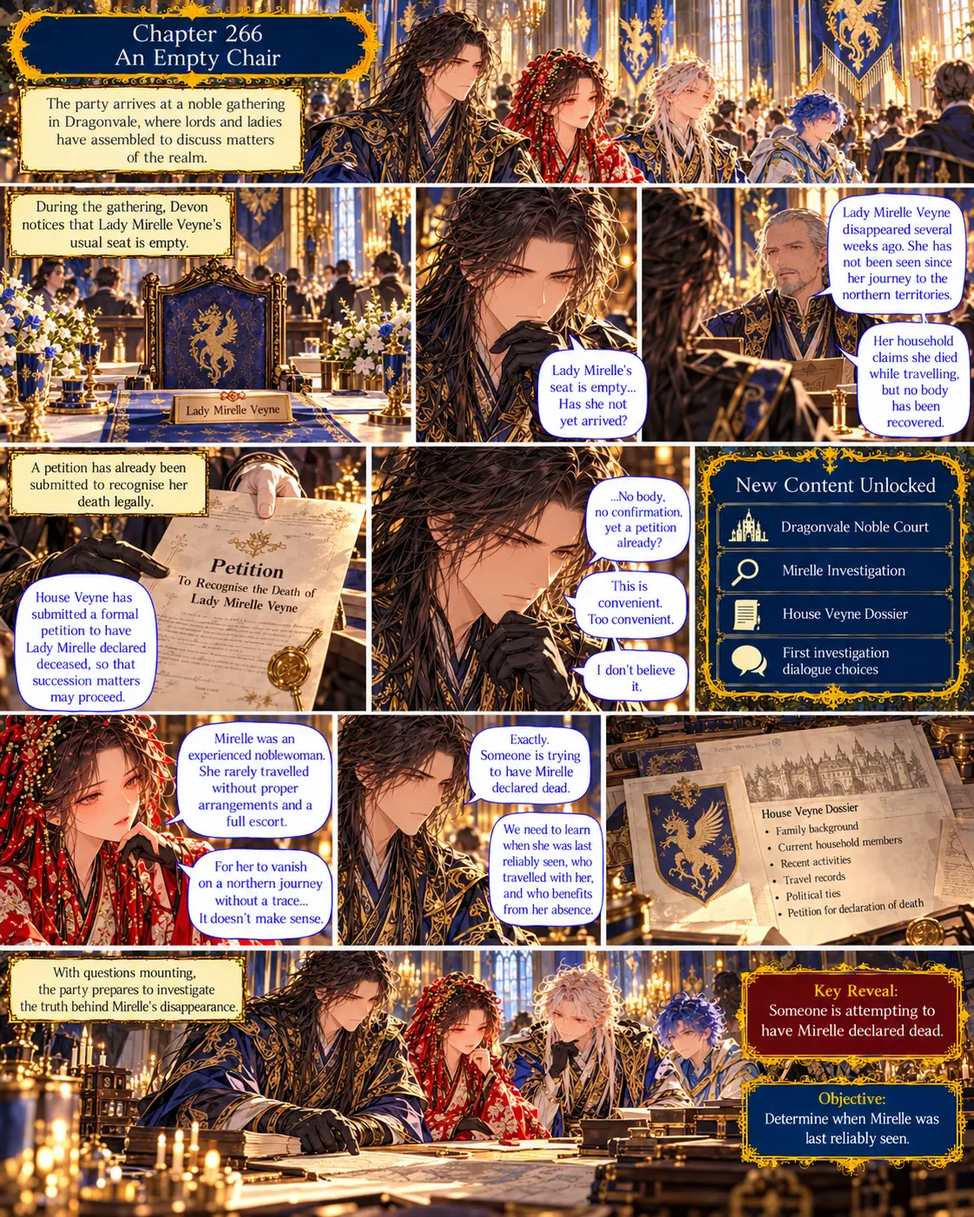
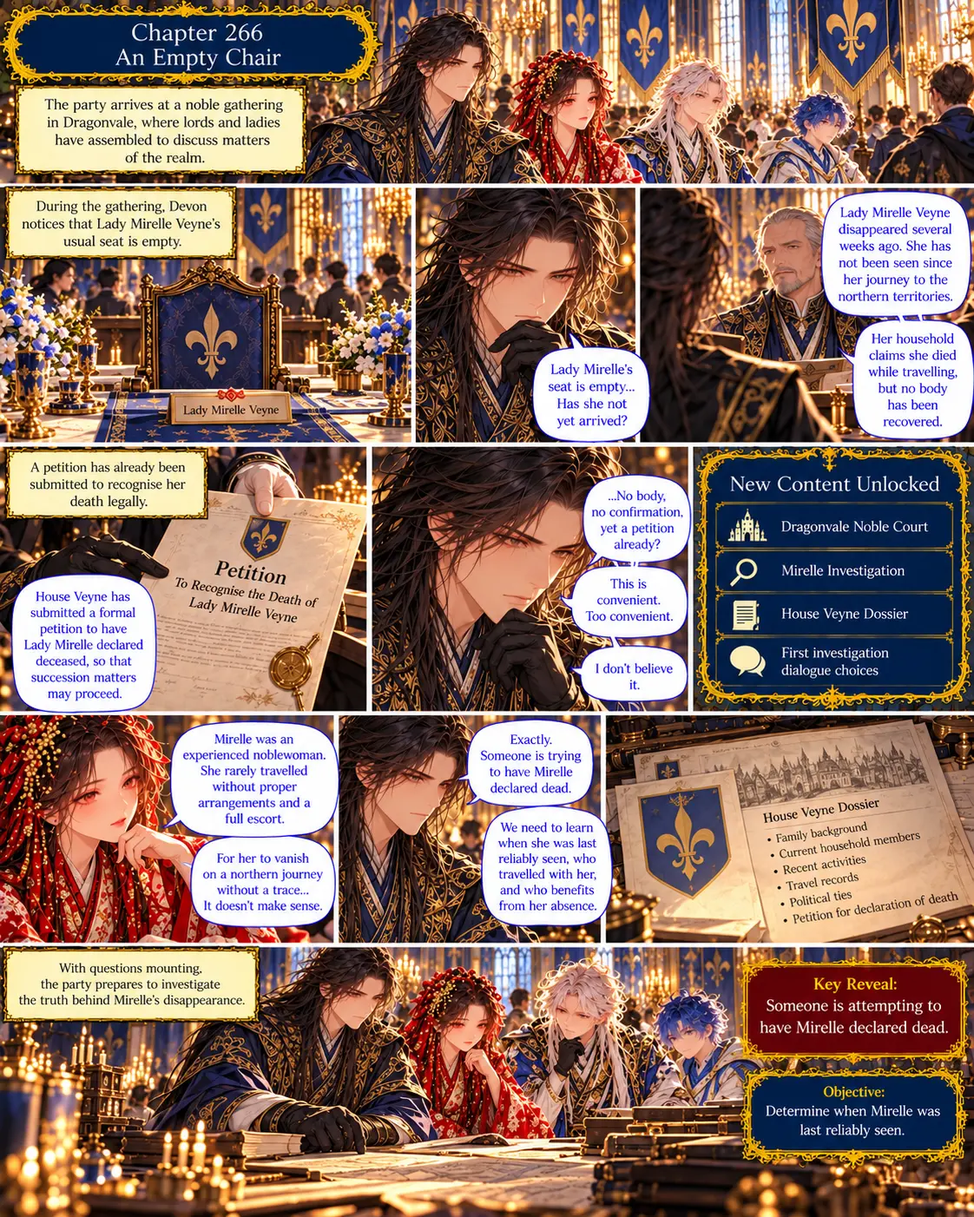
Regenerated 266, 277, 278: fleur-de-lis crest, report to Dragonvale's authorities, convoy date
Claude-Session: https://claude.ai/code/session_01JgCx3Matg4MVjEr67ncDB4

diff --git a/scripts/chapters.js b/scripts/chapters.js
@@ -2671,7 +2671,7 @@ const CHAPTER_DESIGN = {
   chars:['jade', 'devon', 'sky', 'rheon'], charsNote:'Jade, Devon, Sky, Rheon and the Dragonvale nobles',
   introduced:[],
   sum:'The party arrives at a noble gathering in Dragonvale, where lords and ladies have assembled to discuss matters of the realm. During the gathering, Devon notices that Lady Mirelle Veyne\'s usual seat is empty. Devon: "Lady Mirelle\'s seat is empty... Has she not yet arrived?" A lord: "Lady Mirelle Veyne disappeared several weeks ago. She has not been seen since her journey to the northern territories. Her household claims she died while travelling, but no body has been recovered." A petition has already been submitted to recognise her death legally. "House Veyne has submitted a formal petition to have Lady Mirelle declared deceased, so that succession matters may proceed." Devon: "...No body, no confirmation, yet a petition already? This is convenient. Too convenient. I don\'t believe it." Jade: "Mirelle was an experienced noblewoman. She rarely travelled without proper arrangements and a full escort. For her to vanish on a northern journey without a trace... It doesn\'t make sense." Devon: "Exactly. Someone is trying to have Mirelle declared dead. We need to learn when she was last reliably seen, who travelled with her, and who benefits from her absence." NEW CONTENT UNLOCKED: Dragonvale Noble Court. Mirelle Investigation. House Veyne Dossier. First investigation dialogue choices. House Veyne Dossier: family background, current household members, recent activities, travel records, political ties, petition for declaration of death. KEY REVEAL: Someone is attempting to have Mirelle declared dead. OBJECTIVE: Determine when Mirelle was last reliably seen.',
-  art:'Pages show: the Dragonvale noble hall (blue banners with a gold griffin, the House Veyne crest), the empty blue chair with a \'Lady Mirelle Veyne\' name card, Devon questioning a grey-haired lord, the \'Petition to Recognise the Death of Lady Mirelle Veyne\' with a gold-key seal, the House Veyne dossier, and the party at a desk of records (Devon, Jade, Rheon, Sky). \'New Content Unlocked\' and \'Key Reveal\' cards. The Veyne crest is a griffin.',
+  art:'Pages show: the Dragonvale noble hall (blue banners with a gold fleur-de-lis, the House Veyne crest), the empty blue chair with a \'Lady Mirelle Veyne\' name card, Devon questioning a grey-haired lord, the \'Petition to Recognise the Death of Lady Mirelle Veyne\' with a gold-key seal, the House Veyne dossier, and the party at a desk of records (Devon, Jade, Rheon, Sky). \'New Content Unlocked\' and \'Key Reveal\' cards.',
   quote:'"Someone is trying to have Mirelle declared dead." — Devon',
   events:['At the noble gathering Devon sees Lady Mirelle Veyne\'s seat is empty', 'She disappeared several weeks ago after a journey to the northern territories', 'Her household claims she died while travelling; no body has been recovered', 'House Veyne has already filed a petition to have her declared dead', 'Devon: "This is convenient. Too convenient. I don\'t believe it."', 'Key reveal: someone is attempting to have Mirelle declared dead', 'Objective: determine when Mirelle was last reliably seen'],
   purpose:['Open the Mirelle investigation', 'Unlock the Noble Court and the House Veyne dossier'],
@@ -2731,7 +2731,7 @@ const CHAPTER_DESIGN = {
   chars:['jade', 'devon', 'sky', 'levi', 'rheon'], charsNote:'Jade, Devon and the House Veyne household',
   introduced:[],
   sum:'Jade\'s party visits House Veyne in Dragonvale. The estate is still functioning, but in the absence of Lady Mirelle, a tense and uneasy atmosphere lingers over the household. A noble estate, outwardly orderly, but the warmth is gone. Without its lady, the household feels hollow, and fear hangs in the air. Jade: "Thank you for receiving us. We are here to speak about Lady Mirelle and to learn more about the estate." A maid: "Y-Yes, of course, my lady. We will do our best to assist you. Lady Mirelle... she is dead. There is no need to search further. She will not be returning. It was a terrible tragedy. We have all moved on. Please, my lady, don\'t reopen old wounds." The maid, anxious: "I\'m sorry... I cannot talk about Lady Mirelle. Please don\'t ask me any more questions... I... I don\'t know anything. It\'s better if you speak to someone else... Please..." Devon: "Several of the long-serving household officials have been dismissed. The steward, the head of security, and two senior attendants... all removed within the last month. That is a significant change. Someone is purging loyal staff." Dismissed Household Officials: Rennard Vale, Head Steward, 18 years, Dismissed. Celia Marst, Senior Attendant, 12 years, Dismissed. Borin Keld, Head of Security, 16 years, Dismissed. Lysa Quen, Estate Accountant, 14 years, Dismissed. Tomas Heller, Senior Servant, 11 years, Dismissed. All dismissed within the last month by order of the current household authority. Mirelle\'s Private Study: The party gains access to Lady Mirelle\'s private study. Her personal belongings remain, offering a glimpse into her life... and perhaps the truth. Jade: "There are many personal notes, ledgers, and letters here. She was still managing estate affairs right up until the end." Devon: "Look carefully. There may be something they missed." Jade: "There\'s a hidden compartment behind this panel... A document... this looks important. This is a private letter... It describes tensions within the estate, and mentions someone planning to remove certain people... This could be the key to what happened to Lady Mirelle." Devon: "So she suspected something... and someone was trying to isolate her. This confirms there is more to her disappearance than we were told." INVESTIGATION UPDATE: Veyne Estate unlocked: new location available for investigation. Hidden document discovered: a private letter from Lady Mirelle has been found. Objective: Investigate Mirelle\'s private study. Search the study and examine Mirelle\'s personal records for further clues.',
-  art:'Pages show: the House Veyne estate at dusk (blue banners with a gold fleur-de-lis crest), Jade and Devon speaking to a frightened maid, Devon reading the dismissed-officials list, Mirelle\'s private study (a portrait of a lady in a pink-and-violet gown above the desk, flowers, a window), Jade finding a hidden compartment and a sealed letter, Devon and Jade concluding. The portrait in the study shows a dark-haired woman in a violet-and-pink gown (probably Mirelle younger); the older silver-haired Mirelle appears in the 267 flashback. The crest on this page is a fleur-de-lis, on 266 a griffin: House Veyne\'s crest differs between pages (cleaning pass).',
+  art:'Pages show: the House Veyne estate at dusk (blue banners with a gold fleur-de-lis crest), Jade and Devon speaking to a frightened maid, Devon reading the dismissed-officials list, Mirelle\'s private study (a portrait of a lady in a pink-and-violet gown above the desk, flowers, a window), Jade finding a hidden compartment and a sealed letter, Devon and Jade concluding. The portrait in the study shows a dark-haired woman in a violet-and-pink gown (probably Mirelle younger); the older silver-haired Mirelle appears in the 267 flashback.',
   quote:'"Someone is purging loyal staff." — Devon',
   events:['Jade\'s party visits House Veyne: the estate functions, but the warmth is gone and fear hangs in the air', 'The maid insists Mirelle is dead and begs them not to reopen old wounds; others refuse to talk', 'Five long-serving officials were dismissed within the last month, by order of the current household authority', 'Devon: "Someone is purging loyal staff."', 'In Mirelle\'s private study Jade finds a hidden compartment and a sealed letter', 'The letter describes tensions in the estate and someone planning to remove certain people', 'Devon: "She suspected something, and someone was trying to isolate her."'],
   purpose:['Open the Veyne Estate', 'Find Mirelle\'s hidden letter'],
@@ -2780,18 +2780,18 @@ const CHAPTER_DESIGN = {
  277:{ title:'The Name Beneath the Seal', type:'Story Chapter — fraudulent transfers and a request for audit', loc:'🐉 Dragonvale: the northern country: Northwatch Station',
   chars:['jade', 'devon', 'levi', 'rheon', 'sky', 'sky'], charsNote:'Jade, Devon, Rheon and Levi',
   introduced:[],
-  sum:'The recovered documents reveal that someone has been transferring military properties through fraudulent inheritance claims. Mirelle had discovered the scheme. Her disappearance appears to have occurred shortly after she requested an independent audit. Devon realises that the people responsible may hold positions within Dragonvale\'s nobility. Jade: "These are the northern military land grants... but the ownership records were altered. Multiple properties were transferred to distant relatives within a short period of time. Mirelle discovered this and requested an independent audit." The Transfer of Military Properties: Pine Ridge Estate (Former Military Station); Northreach Hollow (Supply Depot); Eastrun Farmlands (Military Provision Land); Stoneveil Forest Permit (Timber and Mineral Rights). Jade: "Her notes end here. Shortly after this request, she disappeared. This was not an accident." Devon: "The beneficiaries are not commoners. These names connect to families within Dragonvale\'s nobility." Rheon: "Her same families appear across multiple transfers. This was planned and coordinated. If they were willing to silence her, there are likely others involved. We need to bring this to Greyson and report it formally." The Independent Audit Request: To: Royal Oversight Office. From: Mirelle Veyne. Subject: Audit of Northern Military Properties: "I hereby request an independent audit regarding the recent transfer of northern military properties, as there are inconsistencies in the inheritance claims and supporting records." Jade: "For now, we update our suspect dossiers and return to Dragonvale with these records. This is no longer just about a missing person. It is a larger conspiracy. We need to find out who gains the most from these transfers. Follow the property trail, the money, and the nobility connected to them." With the documents secured, the party returns to Dragonvale to report their findings. The investigation is far from over, but the truth behind Mirelle\'s disappearance is beginning to surface. OBJECTIVES: Identify the beneficiaries of the fraudulent transfers. Major evidence milestone; Noble Conspiracy investigation stage; return to Dragonvale; update suspect dossiers.',
-  art:'Pages show: the party reading by lantern (Jade with a white-fur coat and red ribbon, Devon in black-and-gold, Rheon, Levi in red-brown), the \'Transfer of Military Properties\' list (four estates with red seals), the \'Independent Audit Request\' (To: Royal Oversight Office; From: Mirelle Veyne), three suspect dossier cards, and the party riding to the waterfall city. The chapter has Rheon propose bringing it to Greyson: Greyson is Tribute\'s king, the report goes to Dragonvale\'s authorities in the next chapters (flagged).',
+  sum:'The recovered documents reveal that someone has been transferring military properties through fraudulent inheritance claims. Mirelle had discovered the scheme. Her disappearance appears to have occurred shortly after she requested an independent audit. Devon realises that the people responsible may hold positions within Dragonvale\'s nobility. Jade: "These are the northern military land grants... but the ownership records were altered. Multiple properties were transferred to distant relatives within a short period of time. Mirelle discovered this and requested an independent audit." The Transfer of Military Properties: Pine Ridge Estate (Forestry and Farmland); Northreach Hollow (Supply Depot); Eastern Farmlands (Military Provisions Land); Stoneveil Forest Permit (Timber and Mineral Rights). Jade: "Her notes end here. Shortly after this request, she disappeared. This was not an accident." Devon: "The beneficiaries are not commoners. These names connect to families within Dragonvale\'s nobility." Rheon: "Her same families appear across multiple transfers. This was planned and coordinated. If they were willing to silence her, there are likely others involved. We need to bring this to Dragonvale\'s authorities and report it formally." The Independent Audit Request: To: Royal Oversight Office. From: Mirelle Veyne. Subject: Audit of Northern Military Properties: "I hereby request an independent audit regarding the recent transfer of northern military properties, as there are inconsistencies in the inheritance claims and supporting records." Jade: "For now, we update our suspect dossiers and return to Dragonvale with these records. This is no longer just about a missing person. It is a larger conspiracy. We need to find out who gains the most from these transfers. Follow the property trail, the money, and the nobility connected to them." With the documents secured, the party returns to Dragonvale to report their findings. The investigation is far from over, but the truth behind Mirelle\'s disappearance is beginning to surface. OBJECTIVES: Identify the beneficiaries of the fraudulent transfers. Major evidence milestone; Noble Conspiracy investigation stage; return to Dragonvale; update suspect dossiers.',
+  art:'Pages show: the party reading by lantern (Jade with a white-fur coat and red ribbon, Devon in black-and-gold, Rheon, Levi in red-brown), the \'Transfer of Military Properties\' list (four estates with red seals), the \'Independent Audit Request\' (To: Royal Oversight Office; From: Mirelle Veyne), three suspect dossier cards, and the party riding to the waterfall city.',
   quote:'"This is no longer just about a missing person. It is a larger conspiracy." — Jade',
-  events:['The recovered documents show military properties transferred through fraudulent inheritance claims', 'Four properties: Pine Ridge Estate, Northreach Hollow, Eastrun Farmlands, Stoneveil Forest Permit', 'Mirelle requested an independent audit from the Royal Oversight Office; she disappeared shortly after', 'The beneficiaries connect to families within Dragonvale\'s nobility', 'Her same families appear across multiple transfers: planned and coordinated', 'The party updates the suspect dossiers and returns to Dragonvale'],
+  events:['The recovered documents show military properties transferred through fraudulent inheritance claims', 'Four properties: Pine Ridge Estate, Northreach Hollow, Eastern Farmlands, Stoneveil Forest Permit', 'Mirelle requested an independent audit from the Royal Oversight Office; she disappeared shortly after', 'The beneficiaries connect to families within Dragonvale\'s nobility', 'Her same families appear across multiple transfers: planned and coordinated', 'The party updates the suspect dossiers and returns to Dragonvale'],
   purpose:['Reach the major evidence milestone', 'Open the noble conspiracy stage'],
   unlocks:['Noble Conspiracy investigation stage', 'Suspect dossiers updated', 'Return to Dragonvale'],
   reward:'The fraudulent transfers uncovered'},
  278:{ title:'A Witness Who Should Be Dead', type:'Story Chapter — a forged signature and a transport north', loc:'🐉 Dragonvale: the Noble Court',
   chars:['jade', 'devon', 'levi', 'rheon', 'sky'], charsNote:'Jade, Devon, Rheon, Levi and a witness',
   introduced:[],
-  sum:'The party investigates a key witness cited in the documents surrounding Mirelle\'s reported death. If his testimony is accurate, he placed his signature on the report confirming her death. But something about his account doesn\'t add up. Jade: "You were listed as a witness to Mirelle\'s death, correct? You saw it yourself and signed this?" Devon: "Your name appears in the official record. You confirmed her death at Eastreach Outpost. Tell us exactly what you saw. And why there are inconsistencies in your statement." The witness: "I... I wasn\'t in Dragonvale when the death occurred! I was in Eastreach on other business. I never saw her die." Jade: "Then how did your name and signature end up on this report? This handwriting doesn\'t match your other signed records." The Death Report (Submitted to Court) shows a forged signature, A. Mardon; the Trade Permit (Eastreach) shows the verified one. The witness: "My signature... It was forged. They gave me a document to sign, said it was standard procedure. I didn\'t realize what it was for at the time. Mirelle was not killed at Eastreach. She was transported north under heavy guard. I was told to keep quiet and say that I had witnessed her death at Eastreach instead." Devon: "So the death report was a fabrication... Mirelle is still alive. And someone went to great lengths to hide her removal from Dragonvale." Rheon: "These travel records confirm a guarded convoy departed three days after the false report. The destination is the northern pass, under Crestfall Hold\'s jurisdiction." Northern Convoy Records: Date: 4th Breavane. From: Dragonvale (Royal Escort). To: Crestfall Hold (North). Escort: North Guard (12). Passengers: 1 (High-Security). Notes: Sealed Orders (Do Not Disclose). Jade: "This confirms it. Mirelle was taken north, not killed. We have a new lead. We move to Crestfall Hold and bring her back." OBJECTIVES: Establish the location of Mirelle\'s last confirmed transport. Witness interrogation; verify forged documents; unlock Mirelle rescue objective; return to Dragonvale and plan the rescue.',
-  art:'Pages show: the interrogation of a sweating witness (Mardon) in a candle-lit room with Jade, Devon, Rheon; the forged signature compared against the verified one; the \'Northern Convoy Records\' (Date: 4th Breavane; To: Crestfall Hold (North); Escort: North Guard (12); Passengers: 1 (High-Security)); and the party on a terrace over Dragonvale. The month name \'Breavane\' is not used elsewhere (the petition uses \'3rd Month\'): the game shows both as the pages do. \'Eastreach\' on this page, \'Eastrun Farmlands\' on 277 are different places.',
+  sum:'The party investigates a key witness cited in the documents surrounding Mirelle\'s reported death. If his testimony is accurate, he placed his signature on the report confirming her death. But something about his account doesn\'t add up. Jade: "You were listed as a witness to Mirelle\'s death, correct? You saw it yourself and signed this?" Devon: "Your name appears in the official record. You confirmed her death at Eastreach Outpost. Tell us exactly what you saw. And why there are inconsistencies in your statement." The witness: "I... I wasn\'t in Dragonvale when the death occurred! I was in Eastreach on other business. I never saw her die." Jade: "Then how did your name and signature end up on this report? This handwriting doesn\'t match your other signed records." The Death Report (Submitted to Court) shows a forged signature, A. Mardon; the Trade Permit (Eastreach) shows the verified one. The witness: "My signature... It was forged. They gave me a document to sign, said it was standard procedure. I didn\'t realize what it was for at the time. Mirelle was not killed at Eastreach. She was transported north under heavy guard. I was told to keep quiet and say that I had witnessed her death at Eastreach instead." Devon: "So the death report was a fabrication... Mirelle is still alive. And someone went to great lengths to hide her removal from Dragonvale." Rheon: "These travel records confirm a guarded convoy departed three days after the false report. The destination is the northern pass, under Crestfall Hold\'s jurisdiction." Northern Convoy Records: Date: 19th Day, 3rd Month. From: Dragonvale (Royal Escort). To: Crestfall Hold (North). Escort: North Guard (12). Passengers: 1 (High-Security). Notes: Sealed Orders (Do Not Disclose). Jade: "This confirms it. Mirelle was taken north, not killed. We have a new lead. We move to Crestfall Hold and bring her back." OBJECTIVES: Establish the location of Mirelle\'s last confirmed transport. Witness interrogation; verify forged documents; unlock Mirelle rescue objective; return to Dragonvale and plan the rescue.',
+  art:'Pages show: the interrogation of a sweating witness (Mardon) in a candle-lit room with Jade, Devon, Rheon; the forged signature compared against the verified one; the \'Northern Convoy Records\' (Date: 19th Day, 3rd Month; To: Crestfall Hold (North); Escort: North Guard (12); Passengers: 1 (High-Security)); and the party on a terrace over Dragonvale. The convoy record is now dated the 19th Day, 3rd Month (the in-world calendar of the petition).',
   quote:'"So the death report was a fabrication... Mirelle is still alive." — Devon',
   events:['The key witness says he was in Eastreach, not Dragonvale: he never saw her die', 'His signature on the death report was forged', 'They gave him a document to sign as "standard procedure" and told him to keep quiet', 'Mirelle was transported north under heavy guard', 'Convoy records: a guarded convoy left three days after the false report, for Crestfall Hold', 'Mirelle may still be alive', 'The party sets out for Crestfall Hold'],
   purpose:['Prove the death report was a fabrication', 'Open the rescue objective'],

diff --git a/scripts/veyne.js b/scripts/veyne.js
@@ -209,7 +209,7 @@ const CASE_ITEMS = [
   {cat:'Locations', n:'The Northern Road', t:'Four names, erased from the latest maps; still in use.', spot:'four_names'},
   {cat:'Documents', n:'Station land grants and shipping logs', t:'Land grants matching the Veyne territories, funded through House Veyne\'s private accounts.', spot:'veyne_land_grants'},
   {cat:'Locations', n:'Northwatch Station', t:'Hidden beneath the pines: still in use.', spot:'station_overview'},
-  {cat:'Documents', n:'Transfer of Military Properties', t:'Pine Ridge Estate, Northreach Hollow, Eastrun Farmlands and Stoneveil Forest Permit.', spot:'altered_ownership'},
+  {cat:'Documents', n:'Transfer of Military Properties', t:'Pine Ridge Estate, Northreach Hollow, Eastern Farmlands and Stoneveil Forest Permit.', spot:'altered_ownership'},
   {cat:'Documents', n:'Mirelle\'s audit request', t:'To the Royal Oversight Office, shortly before she vanished.', spot:'audit_request'},
   {cat:'Witnesses', n:'The witness whose signature was forged', t:'He never saw her die.', spot:'listed_witness'},
   {cat:'Contradictions', n:'A forged signature on the death report', t:'Compare the forged A. Mardon with the verified one.', spot:'forged_signature'},
@@ -434,7 +434,7 @@ LOCATIONS.northwatch_station.spots.push(
    clues:['Jade: "These documents... They\'re land grants. They match the disputed Veyne territories. This proves the supplies here were funded through House Veyne\'s private accounts."', 'The recovered records include shipping logs, supply lists, and land grant documents tied to House Veyne, confirming a coordinated effort to expand their influence in the north.'], rw:{xp:180500, gold:38400}},
   {id:'altered_ownership', kind:'investigate', n:'Altered Ownership', icon:'📜', ch:277, need:2, ambush:[], lo:82, delilahCase:true,
    desc:'Distant relatives.',
-   clues:['Jade: "These are the northern military land grants... but the ownership records were altered. Multiple properties were transferred to distant relatives within a short period of time. Mirelle discovered this and requested an independent audit."', 'Transfer of Military Properties: Pine Ridge Estate (Former Military Station); Northreach Hollow (Supply Depot); Eastrun Farmlands (Military Provision Land); Stoneveil Forest Permit (Timber and Mineral Rights).'], rw:{xp:180800, gold:38460}},
+   clues:['Jade: "These are the northern military land grants... but the ownership records were altered. Multiple properties were transferred to distant relatives within a short period of time. Mirelle discovered this and requested an independent audit."', 'Transfer of Military Properties: Pine Ridge Estate (Forestry and Farmland); Northreach Hollow (Supply Depot); Eastern Farmlands (Military Provisions Land); Stoneveil Forest Permit (Timber and Mineral Rights).'], rw:{xp:180800, gold:38460}},
   {id:'audit_request', kind:'investigate', n:'The Independent Audit Request', icon:'📨', ch:277, need:2, ambush:[], lo:82, delilahCase:true, needFlag:'inv_altered_ownership', lockMsg:'🔒 Finish the previous clue first',
    desc:'To the Royal Oversight Office.',
    clues:['Independent Audit Request. To: Royal Oversight Office. From: Mirelle Veyne. "I hereby request an independent audit regarding the recent transfer of northern military properties, as there are inconsistencies in the inheritance claims and supporting records."', 'Jade: "Her notes end here. Shortly after this request, she disappeared. This was not an accident."'], rw:{xp:181100, gold:38520}},

diff --git a/sw.js b/sw.js
@@ -1,5 +1,5 @@
 /* Tribute service worker: app shell is cached for offline play; images and other assets are cached as you play. */
-const VERSION = 'tribute-v117';
+const VERSION = 'tribute-v118';
 const SHELL = ['./', './index.html', './styles.css', './manifest.webmanifest',
   './scripts/chapters.js','./scripts/characters.js','./scripts/skilltree.js','./scripts/core.js','./scripts/enemies.js','./scripts/battle.js','./scripts/autobattle.js',
   './scripts/journal.js','./scripts/world.js','./scripts/world-ui.js','./scripts/maps.js','./scripts/voyage.js','./scripts/family.js','./scripts/raid.js','./scripts/network.js','./scripts/evils.js','./scripts/relations.js','./scripts/regard.js','./scripts/whispers.js','./scripts/chronicle.js','./scripts/salary.js','./scripts/apprentice.js','./scripts/banter.js','./scripts/corruption.js','./scripts/explore.js','./scripts/arcs.js','./scripts/base.js','./scripts/skirmish.js','./scripts/items.js','./scripts/gear.js','./scripts/loot.js','./scripts/gates.js','./scripts/standing.js','./scripts/overheard.js','./scripts/deeds.js','./scripts/estates.js','./scripts/archive.js','./scripts/sunken.js','./scripts/passages.js','./scripts/codex.js','./scripts/growth.js','./scripts/echoes.js','./scripts/vows.js','./scripts/outfits.js','./scripts/royals.js','./scripts/arc9.js','./scripts/residents.js','./scripts/routes.js','./scripts/timed.js','./scripts/ways.js','./scripts/repute.js','./scripts/regmarks.js','./scripts/altan.js','./scripts/veyne.js','./scripts/roc.js','./scripts/rewards.js','./scripts/tracker.js',

diff --git a/docs/DRAGONVALE_YEAR_PLAN.md b/docs/DRAGONVALE_YEAR_PLAN.md
@@ -748,3 +748,5 @@ Built (scripts/veyne.js, plus chapters/world/core): 263 The Prince Who Wouldn't 
 - Revised Arc XI briefs 281-286 saved in docs/ARC_XI_PLAN.md. Built (v116): Ancient Relics records 'The Mirror of Returning Years' and 'Mirelle's Transformation' in the Archive, an 'Unresolved Phenomenon' lore entry (286). The generated pages already match the revised briefs, so the chapter texts are unchanged. The Mirror does not touch the Register.
 
 - Ch271 regenerated (v117): Delilah now says the death was reported on the 10th Day of the 3rd Month, matching ch270. Date mismatch closed. Still waiting on regenerated 277 (Rheon's report should go to Dragonvale's authorities, not Greyson), 278 (replace "4th Breavane", suggested "19th Day, 3rd Month") and 266 (griffin crest vs the blue-and-gold fleur-de-lis banner).
+
+- Regenerated 266, 277 and 278 (v118): the House Veyne crest is now a gold fleur-de-lis on blue everywhere (266 was the griffin); 277 has Rheon say to bring the report to Dragonvale's authorities, and its properties now read Pine Ridge Estate (Forestry and Farmland) and Eastern Farmlands (Military Provisions Land); 278's convoy record is dated the 19th Day, 3rd Month. All the Arc XI continuity regenerations are done; 283's crest is not yet checked.
